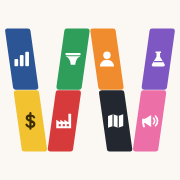
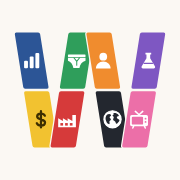
銷售分析合計改藍色、原本藍色改青色；W 圖示第二版（轉折處疊上去、新圖案）
- 合計長條 --total 改藍；c1 改青色，c9 改淡紫、c11 改沙色，藍染 --s1 改深青；進貨分析、應收帳款合計維持深紅
- 圖示：轉折處兩筆疊在一起、切口俐落；工廠煙囪短廠房大、男生三角褲、黑色改地球、粉紅改電視
- 依使用者新的 JMSINC 範本確認：品項總額 = 成本 × 數量（打），件數 × 12，和網站算法一致

Claude-Session: https://claude.ai/code/session_01EbZCET9aCDKd8NzKoi6953

Changed region(s): [[0.0278, 0.1389, 0.9722, 0.8611]]

diff --git a/js/recv.js b/js/recv.js
@@ -623,7 +623,7 @@
         <div class="kpi"><div class="k">退貨＋補價</div><div class="v">${fmt.big((T.ret || 0) + (T.bu || 0))}</div><div class="d">退貨 ${fmt.big(T.ret || 0)}、補價 ${fmt.big(T.bu || 0)}</div></div>
         <div class="kpi ${T.bad ? 'alert' : ''}"><div class="k">對不上（客戶・月）</div><div class="v">${T.bad ? `<span class="bad">${T.bad} 位</span>` : '<span class="ok">0 位</span>'}</div><div class="d">差額合計 ${fmt.money(T.diff)}</div></div>
       </div>
-      <div class="panel"><div class="panel-head"><h2>每月應收淨額與實收</h2></div><p class="hint">深紅長條是應收淨額，藍線是實收。兩者差的部分是不足、保留、溢入等調整。</p><div class="chart" id="raChart"></div>
+      <div class="panel"><div class="panel-head"><h2>每月應收淨額與實收</h2></div><p class="hint">深紅長條是應收淨額，青色線是實收。兩者差的部分是不足、保留、溢入等調整。</p><div class="chart" id="raChart"></div>
         <details class="num-table"><summary>數字表</summary><div class="table-wrap" id="raMonths"></div></details></div>
       <div class="grid2"><div class="panel"><div class="panel-head"><h2>各地區</h2></div><div class="table-wrap" id="raRegion"></div></div>
         <div class="panel"><div class="panel-head"><h2>各業務</h2></div><div class="table-wrap" id="raRep"></div></div></div>
@@ -631,7 +631,7 @@
       <div class="panel"><div class="panel-head"><h2>上次還有調整的客戶（不足、保留、溢入…）</h2></div><p class="hint">每位客戶最近一次登記的狀況。點一列到那個月的收款登記。</p><div class="table-wrap" id="raOpen"></div></div>
       <div class="panel"><div class="panel-head"><h2>${Y}年對不上的客戶</h2></div><p class="hint">同一位客戶同一個月的幾行加起來，應收淨額 ≠ 實收 + 調整。點一列到那個月去改。</p><div class="table-wrap" id="raBad"></div></div>`;
     $('#raYear').onchange = (e) => { S.recvYear = +e.target.value; renderAnalysis(ctx); };
-    Charts.render($('#raChart'), { type: 'combo', labels: byM.map((m) => ymLabel(m.ym)), series: [{ name: '應收淨額', kind: 'bar', cls: 'total', values: byM.map((m) => m.due) }, { name: '實收', kind: 'line', cls: 'c1', values: byM.map((m) => m.paid || 0) }], fmt: fmt.money, axisFmt: fmt.axis, title: '每月應收淨額與實收' });
+    Charts.render($('#raChart'), { type: 'combo', labels: byM.map((m) => ymLabel(m.ym)), series: [{ name: '應收淨額', kind: 'bar', cls: 'total-red', values: byM.map((m) => m.due) }, { name: '實收', kind: 'line', cls: 'c1', values: byM.map((m) => m.paid || 0) }], fmt: fmt.money, axisFmt: fmt.axis, title: '每月應收淨額與實收' });
     const cols = [{ key: 'due', label: '應收淨額', n: 1, fmt: 'money' }, { key: 'paid', label: '實收', n: 1, fmt: 'money' }, { key: 'disc', label: '折讓', n: 1, fmt: 'money' },
       { key: 'rate', label: '折讓率', n: 1, render: (r) => pct(r.disc || 0, (r.ar || 0) - (r.ret || 0) - (r.bu || 0)) }, { key: 'adj', label: '調整', n: 1, fmt: 'money' }, { key: 'bad', label: '對不上', n: 1, render: (r) => (r.bad ? `<span class="bad">${r.bad}</span>` : '0') }];
     ctx.table($('#raMonths'), [{ key: 'ym', label: '月份', render: (r) => ymLabel(r.ym) }, { key: 'ar', label: '應收', n: 1, fmt: 'money' }, { key: 'ret', label: '退貨', n: 1, fmt: 'money' }, { key: 'bu', label: '補價', n: 1, fmt: 'money' }, { key: 'tax', label: '稅金', n: 1, fmt: 'money' }, { key: 'other', label: '尾數', n: 1, fmt: 'money' }].concat(cols), byM);

diff --git a/css/app.css b/css/app.css
@@ -5,11 +5,11 @@
   --primary: #26437A; --primary-ink: #FFFFFF; --primary-soft: #E3E9F4;
   --accent: #B8473C; --accent-soft: #F6E3E0;
   --good: #2E7D4F; --warn: #A86A00; --bad: #B8473C;
-  --s1: #2D5AA0; --s2: #C0503F; --s3: #9AA7BD;
+  --s1: #13849a; --s2: #C0503F; --s3: #9AA7BD;
   /* 分類配色（區域、大類）：已用色盲檢查驗證，light／dark 各一組 */
-  --c1: #2a78d6; --c2: #eb6834; --c3: #1baf7a; --c4: #eda100; --c5: #e87ba4; --c6: #008300; --c7: #6250d6; --c8: #e34948; --c-ink: #ffffff; --c4-ink: #0b0b0b;
-  --total: #9B2226;
-  --c9: #0f9fb5; --c10: #9c5a2b; --c11: #6cbcf5; --c12: #8ab31b; --c13: #b5338a; --c14: #5b6b80; --c15: #6b7a1a; --c16: #3a3a3a;
+  --c1: #0fa3b8; --c2: #eb6834; --c3: #1baf7a; --c4: #eda100; --c5: #e87ba4; --c6: #008300; --c7: #6250d6; --c8: #e34948; --c-ink: #ffffff; --c4-ink: #0b0b0b;
+  --total: #1F56B8; --total-red: #9B2226;
+  --c9: #a77bd6; --c10: #9c5a2b; --c11: #c2b280; --c12: #8ab31b; --c13: #b5338a; --c14: #5b6b80; --c15: #6b7a1a; --c16: #3a3a3a;
   --heat-0: #EEF2F8; --heat-1: #C9D5EA; --heat-2: #8EA6CF; --heat-3: #4E6FA8; --heat-4: #26437A;
   --font: "Noto Sans TC", "PingFang TC", "Microsoft JhengHei", sans-serif;
   --font-head: "Noto Serif TC", "Songti TC", "PMingLiU", serif;
@@ -25,9 +25,9 @@
   --accent: #F0705A; --accent-soft: #3A2427;
   --good: #3CC2A0; --warn: #F3B23C; --bad: #F0705A;
   --s1: #2FA898; --s2: #E0674E; --s3: #5B6F8F;
-  --c1: #3987e5; --c2: #d95926; --c3: #199e70; --c4: #c98500; --c5: #d55181; --c6: #008300; --c7: #9085e9; --c8: #e66767; --c-ink: #ffffff; --c4-ink: #ffffff;
-  --total: #d0454a;
-  --c9: #2ec4d9; --c10: #c98a5a; --c11: #9ad4ff; --c12: #a6cf3a; --c13: #e070bd; --c14: #9aa9bd; --c15: #a8b84a; --c16: #d9d9d9;
+  --c1: #2ec4d9; --c2: #d95926; --c3: #199e70; --c4: #c98500; --c5: #d55181; --c6: #008300; --c7: #9085e9; --c8: #e66767; --c-ink: #ffffff; --c4-ink: #ffffff;
+  --total: #4d8ff0; --total-red: #d0454a;
+  --c9: #c4a3f0; --c10: #c98a5a; --c11: #d6c79a; --c12: #a6cf3a; --c13: #e070bd; --c14: #9aa9bd; --c15: #a8b84a; --c16: #d9d9d9;
   --heat-0: #1B2A44; --heat-1: #22445A; --heat-2: #24676E; --heat-3: #2A8B84; --heat-4: #3CB59E;
   --font: "Noto Sans TC", "PingFang TC", "Microsoft JhengHei", sans-serif;
   --font-head: "Noto Sans TC", "PingFang TC", sans-serif;
@@ -43,9 +43,9 @@
   --accent: #C77D05; --accent-soft: #FBEFD6;
   --good: #13805F; --warn: #B56F00; --bad: #C2453A;
   --s1: #13805F; --s2: #C77D05; --s3: #9DB3A8;
-  --c1: #2a78d6; --c2: #eb6834; --c3: #1baf7a; --c4: #eda100; --c5: #e87ba4; --c6: #008300; --c7: #6250d6; --c8: #e34948; --c-ink: #ffffff; --c4-ink: #0b0b0b;
-  --total: #9B2226;
-  --c9: #0f9fb5; --c10: #9c5a2b; --c11: #6cbcf5; --c12: #8ab31b; --c13: #b5338a; --c14: #5b6b80; --c15: #6b7a1a; --c16: #3a3a3a;
+  --c1: #0fa3b8; --c2: #eb6834; --c3: #1baf7a; --c4: #eda100; --c5: #e87ba4; --c6: #008300; --c7: #6250d6; --c8: #e34948; --c-ink: #ffffff; --c4-ink: #0b0b0b;
+  --total: #1F56B8; --total-red: #9B2226;
+  --c9: #a77bd6; --c10: #9c5a2b; --c11: #c2b280; --c12: #8ab31b; --c13: #b5338a; --c14: #5b6b80; --c15: #6b7a1a; --c16: #3a3a3a;
   --heat-0: #EEF6F1; --heat-1: #CBE7D8; --heat-2: #8ACBAD; --heat-3: #3FA57D; --heat-4: #13805F;
   --font: "Noto Sans TC", "PingFang TC", "Microsoft JhengHei", sans-serif;
   --font-head: "Huninn", "Noto Sans TC", sans-serif;

diff --git a/js/buy.js b/js/buy.js
@@ -191,7 +191,7 @@
         <div class="panel"><div class="panel-head"><h2>每月進貨和退回廠商</h2></div><p class="hint">近 12 個月（到 ${esc(root.EngineMeta.ymLabel(R.F[1]))}），長條是進貨、退回分開看。</p><div class="chart" id="buyInBk"></div></div></div>`;
     const tr = trend(BE, R, null);
     $('#buyTrendHint').textContent = tr.hint + (tr.prev ? '，虛線是去年同期。' : '。') + ` 合計 ${fmt.big(tr.cur.reduce((t, v) => t + v, 0))}。`;
-    Charts.render($('#buyTrend'), { type: tr.prev ? 'combo' : 'bar', labels: tr.labels, series: [{ name: '淨進貨', kind: 'bar', cls: 'total', values: tr.cur }, ...(tr.prev ? [{ name: '去年同期', kind: 'line', dash: true, cls: 's3', values: tr.prev }] : [])], fmt: fmt.money, axisFmt: fmt.axis, title: '淨進貨走勢' });
+    Charts.render($('#buyTrend'), { type: tr.prev ? 'combo' : 'bar', labels: tr.labels, series: [{ name: '淨進貨', kind: 'bar', cls: 'total-red', values: tr.cur }, ...(tr.prev ? [{ name: '去年同期', kind: 'line', dash: true, cls: 's3', values: tr.prev }] : [])], fmt: fmt.money, axisFmt: fmt.axis, title: '淨進貨走勢' });
     const vl = [...vend.values()].filter((v) => v.net > 0).sort((a, b) => b.net - a.net);
     Charts.hbars($('#buyTopV'), { rows: vl.slice(0, 10).map((v) => ({ label: BE.vendLabel(v.key), value: v.net, prev: P ? (pv.get(v.key) || {}).net || 0 : null, v: v.key, cls: X.colorOf('vend', v.key) })), fmt: fmt.big, limit: 10, onClick: (x) => openVendor(X, x.v) });
     Charts.donut($('#buyMixV'), { items: vl.map((v) => ({ label: BE.vendLabel(v.key), value: v.net, cls: X.colorOf('vend', v.key), v: v.key })), fmt: fmt.big, title: '廠商', center: { value: fmt.big(T.net), label: '淨進貨' }, onClick: (x) => openVendor(X, x.v) });

diff --git a/sw.js b/sw.js
@@ -1,5 +1,5 @@
 // 離線快取：程式本身可離線開啟；資料存在 IndexedDB，不經過這裡。
-const VERSION = 'v35';
+const VERSION = 'v36';
 const SHELL = ['./', 'index.html', 'css/app.css', 'js/app.js', 'js/engine.js', 'js/dataset.js', 'js/chart.js', 'js/period.js', 'js/recv.js', 'js/recv-backup.js', 'js/buy.js', 'js/dashboard.js', 'js/report.js', 'js/today.js', 'js/compare.js', 'js/reps.js', 'js/board.js', 'js/demo.js', 'js/worker.js', 'js/xlsx-stream.js', 'js/dbf.js', 'js/office-crypto.js', 'js/ingest.js', 'manifest.webmanifest', 'icons/icon.svg', 'icons/icon-192.png', 'icons/icon-180.png'];
 self.addEventListener('install', (e) => { e.waitUntil(caches.open(VERSION).then((c) => c.addAll(SHELL)).then(() => self.skipWaiting())); });
 self.addEventListener('activate', (e) => { e.waitUntil(caches.keys().then((ks) => Promise.all(ks.filter((k) => k !== VERSION).map((k) => caches.delete(k)))).then(() => self.clients.claim())); });

diff --git a/js/chart.js b/js/chart.js
@@ -9,7 +9,7 @@
   const mk = (tag, attrs = {}, parent) => { const e = document.createElementNS(NS, tag); for (const k in attrs) e.setAttribute(k, attrs[k]); if (parent) parent.appendChild(e); return e; };
   const esc = (s) => String(s ?? '').replace(/[&<>"]/g, (c) => ({ '&': '&amp;', '<': '&lt;', '>': '&gt;', '"': '&quot;' }[c]));
   const col = (cls) => `var(--${cls || 's1'})`;
-  // 分類色（原本的順序）；合計／淨銷售總數用另外的 --total（深紅），不在這裡
+  // 分類色（原本的順序）；合計／淨銷售總數用另外的 --total（2026-11-17 起是藍色，c1 改青色），不在這裡；進貨分析、應收帳款的合計用 --total-red
   const PAL = ['c1', 'c2', 'c3', 'c4', 'c5', 'c6', 'c7', 'c8', 'c9', 'c10', 'c11', 'c12', 'c13', 'c14', 'c15', 'c16'];
 
   // 讓格線落在整齊的數字上（1、2、5 的倍數）

diff --git a/js/compare.js b/js/compare.js
@@ -23,7 +23,7 @@
     { k: 'cat', label: '商品類別' }, { k: 'ck', label: '客戶' }, { k: 'style', label: '款號' },
   ];
   const FILTER_DIMS = ['region', 'rep', 'big', 'cat', 'ck', 'style'];
-  const COLORS = ['c1', 'c3', 'c4', 'c7', 'c5', 'c6']; // 不用橘、紅，免得和合計的深紅長條混在一起
+  const COLORS = ['c1', 'c3', 'c4', 'c7', 'c5', 'c6']; // 不用藍、橘、紅，免得和合計的藍色長條混在一起
 
   function render(ctx) {
     const { S, E, fmt, nf0, nf1, esc, $, $$, Charts, repName } = ctx;

diff --git a/tests/make_icon.py b/tests/make_icon.py
@@ -1,42 +1,60 @@
 # 產生主畫面圖示 W 標誌（icons/icon.svg、PNG；2026-11-17 使用者設計）：8 個斜的色塊組成 W 的 4 筆，每筆上下兩塊。
-# 沿著 W 的筆畫依序：藍（銷售分析圖）、黃（錢）、紅（工廠）、綠（內褲）、橘（人）、黑（地圖）、粉（行銷）、紫（實驗室）
+# 沿著 W 的筆畫依序：藍（銷售分析圖）、黃（錢）、紅（工廠）、綠（男生三角褲）、橘（人）、黑（地球，上面有地圖）、粉（電視，代表行銷）、紫（實驗室）
 import math, sys
-W_, H_, DEG, GAP = 58, 160, 8, 16   # 色塊寬、高、傾斜角度、間隔（含圓角外擴）
-RND = 14                             # 圓角（用同色外框做出來，會外擴 RND/2）
+# 2026-11-17 第二版（使用者要求）：轉折處（下面兩個尖角、中間的尖角）兩筆稍微疊上去；切口俐落（小圓角、細的底色分隔線）
+W_, H_, DEG = 72, 160, 9      # 色塊寬、高、傾斜角度
+CUT = 7                        # 同一筆上下兩塊之間的切口
+OV = 22                        # 轉折處兩筆疊在一起的寬度
+RAD = 5                        # 圓角（小一點比較俐落）
+LINE = 7                       # 疊在上面的色塊外圍的底色分隔線（一半在色塊外）
+BG = '#FBF8F3'
 COLS = ['#2C5596', '#F2C230', '#D63A3A', '#2F9E5B', '#F08C2E', '#23272F', '#EC6FA8', '#7E57C2']
-GL = ['chart', 'money', 'factory', 'briefs', 'person', 'map', 'promo', 'lab']
+GL = ['chart', 'money', 'factory', 'briefs', 'person', 'globe', 'tv', 'lab']
 GLY = {
  'chart': '<rect x="3" y="12" width="4.6" height="9" rx="1.2"/><rect x="9.7" y="7" width="4.6" height="14" rx="1.2"/><rect x="16.4" y="3" width="4.6" height="18" rx="1.2"/>',
  'money': '<path d="M16.6 7.6c-.8-1.6-2.5-2.4-4.6-2.4-2.6 0-4.5 1.3-4.5 3.3 0 4.6 9.3 2.4 9.3 7.2 0 2.1-2 3.6-4.9 3.6-2.2 0-4-.9-4.8-2.7M12 2.4v19.2" fill="none" stroke="currentColor" stroke-width="2.7" stroke-linecap="round" stroke-linejoin="round"/>',
- 'factory': '<path d="M2 21V10.5l5 3v-3l5 3v-3l5 3V3h3.4v18z"/><rect x="5" y="16" width="2.6" height="2.6" fill="BG"/><rect x="10" y="16" width="2.6" height="2.6" fill="BG"/><rect x="15" y="16" width="2.6" height="2.6" fill="BG"/>',
+ # 工廠：煙囪短、廠房大
+ 'factory': '<path d="M1 21.5V10.6l5.6 3.4v-3.4l5.6 3.4v-3.4l5.6 3.4V6.8h4.2v14.7z"/><rect x="3.6" y="16.4" width="3.2" height="3" fill="BG"/><rect x="9.2" y="16.4" width="3.2" height="3" fill="BG"/><rect x="14.8" y="16.4" width="3.2" height="3" fill="BG"/>',
  'person': '<circle cx="12" cy="7.3" r="4.6"/><path d="M3.3 21.2c0-4.8 3.9-8.3 8.7-8.3s8.7 3.5 8.7 8.3z"/>',
- 'briefs': '<rect x="2.6" y="4.4" width="18.8" height="3" rx="1"/><path d="M2.6 8.6h18.8c-3.6 1.2-6.1 4.6-6.6 10.6H9.2C8.7 13.2 6.2 9.8 2.6 8.6z"/>',
- 'promo': '<path d="M2.8 9.4h3.6L14 4.6v14.8l-7.6-4.8H5.2l1.3 5.2H3.9l-1.1-5.2z"/><path d="M16.8 8.6a4.6 4.6 0 0 1 0 6.8M19.3 6a8.3 8.3 0 0 1 0 12" fill="none" stroke="currentColor" stroke-width="2" stroke-linecap="round"/>',
+ # 男生三角褲：腰頭、兩側有寬度、前面 Y 字車線
+ 'briefs': '<rect x="1.6" y="4.6" width="20.8" height="3.2" rx=".8"/><path d="M1.6 8.6h20.8v3.6c-3.9 1-6.6 4.2-7.2 8.6H8C7.4 16.4 4.7 13.2 1.6 12.2z"/><path d="M8.6 8.6l3.4 4.2 3.4-4.2M12 12.8v4.6" fill="none" stroke="BG" stroke-width="1.2" stroke-linecap="round" stroke-linejoin="round"/>',
+ # 地球（上面有地圖）
+ 'globe': '<circle cx="12" cy="12" r="10.2"/><g fill="BG"><path d="M5.7 6.2c1.6-.9 3.6-.8 4.4.3.6.8-.3 1.7-1.1 2.2-.8.6-.4 1.6.5 2.2 1 .7.6 2-.4 2.5-.9.5-1 1.6-.6 2.7.3 1-.2 1.9-1.1 1.5C5.6 17 4.4 14.4 3.9 12.4c-.5-2 .2-5 1.8-6.2z"/><path d="M13.2 4.6c2-.4 4.3.3 5.8 1.8.8.9.4 1.9-.5 2-1.2.1-1.7 1-1.2 1.9.5 1.1 1.7 1.3 2.6 2.1.6.6.2 1.7-.5 2.4l-1.9 2c-.6.6-1.6.3-1.7-.6-.2-1.4-1.2-2.1-2.3-2.8-1-.6-1-1.9-.3-2.8.6-.8.1-1.7-.6-2.2-.9-.7-.7-1.8.6-1.8z"/></g><circle cx="12" cy="12" r="10.2" fill="none" stroke="currentColor" stroke-width="1.4"/>',
+ # 電視：天線、螢幕、旋鈕
+ 'tv': '<path d="M7.6 2.6 12 6.6l4.4-4" fill="none" stroke="currentColor" stroke-width="1.8" stroke-linecap="round" stroke-linejoin="round"/><rect x="1.4" y="6.8" width="21.2" height="13.4" rx="2"/><rect x="3.4" y="8.8" width="13.4" height="9.4" rx="1.4" fill="BG"/><circle cx="19.7" cy="11.2" r="1.1" fill="BG"/><circle cx="19.7" cy="15" r="1.1" fill="BG"/><path d="M5.5 20.2 4.6 22.2M18.5 20.2l.9 2" stroke="currentColor" stroke-width="1.8" stroke-linecap="round"/>',
  'lab': '<path d="M8.6 2.6h6.8v2h-1.2v4.6l5.6 9.3a1.8 1.8 0 0 1-1.5 2.8H5.7a1.8 1.8 0 0 1-1.5-2.8l5.6-9.3V4.6H8.6z"/><path d="M7 15.2h10" stroke="BG" stroke-width="1.6" stroke-linecap="round"/>',
- 'map': '<path d="M2.6 5.8 8.8 3.6l6.4 2.2 6.2-2.2v14.6l-6.2 2.2-6.4-2.2-6.2 2.2z"/><path d="M8.8 3.6v14.6M15.2 5.8v14.6" stroke="BG" stroke-width="1.5"/>',
 }
+def para(cx, cy, a, b, t, sg, r):
+    """斜的平行四邊形（上下邊水平），角稍微圓一點"""
+    P = [(cx - a - sg * b * t, cy - b), (cx + a - sg * b * t, cy - b), (cx + a + sg * b * t, cy + b), (cx - a + sg * b * t, cy + b)]
+    out = []
+    for i in range(4):
+        p0, p1, p2 = P[i - 1], P[i], P[(i + 1) % 4]
+        def toward(p, q, d):
+            L = math.hypot(q[0] - p[0], q[1] - p[1]); return (p[0] + (q[0] - p[0]) * d / L, p[1] + (q[1] - p[1]) * d / L)
+        s1 = toward(p1, p0, r); s2 = toward(p1, p2, r)
+        out.append(f"{'M' if i == 0 else 'L'}{s1[0]:.1f},{s1[1]:.1f} Q{p1[0]:.1f},{p1[1]:.1f} {s2[0]:.1f},{s2[1]:.1f}")
+    return ' '.join(out) + 'Z'
 def blocks():
     t = math.tan(math.radians(DEG)); a, b = W_ / 2, H_ / 2
-    s = (H_ + GAP) * t; step = 2 * a + 2 * b * t + GAP
+    s = (H_ + CUT) * t; step = 2 * a + 2 * b * t - OV
     x1t = 0; x1b = s; x2b = x1b + step; x2t = x2b + s; x3t = x2t + step; x3b = x3t + s; x4b = x3b + step; x4t = x4b + s
     width = x4t + 2 * a + 2 * b * t
     off = (512 - width) / 2 + a + b * t
-    yt = (512 - (2 * H_ + GAP)) / 2 + b; yb = yt + H_ + GAP
+    yt = (512 - (2 * H_ + CUT)) / 2 + b; yb = yt + H_ + CUT
     pos = [(x1t, yt, 1), (x1b, yb, 1), (x2b, yb, -1), (x2t, yt, -1), (x3t, yt, 1), (x3b, yb, 1), (x4b, yb, -1), (x4t, yt, -1)]
     out = []
     for (cx, cy, sg), col, g in zip(pos, COLS, GL):
         cx += off
-        pts = [(cx - a - sg * b * t, cy - b), (cx + a - sg * b * t, cy - b), (cx + a + sg * b * t, cy + b), (cx - a + sg * b * t, cy + b)]
-        d = 'M' + ' L'.join(f'{x:.1f},{y:.1f}' for x, y in pts) + 'Z'
         ink = '#3d2e00' if col == '#F2C230' else '#fff'
-        gs = W_ * 0.95; sc = gs / 24
-        out.append(f'<path d="{d}" fill="{col}" stroke="{col}" stroke-width="{RND}" stroke-linejoin="round"/>'
+        gs = W_ * 0.8; sc = gs / 24
+        out.append(f'<path d="{para(cx, cy, a, b, t, sg, RAD)}" fill="{col}" stroke="{BG}" stroke-width="{LINE}" paint-order="stroke" stroke-linejoin="round"/>'
                    f'<g transform="translate({cx - gs / 2:.1f} {cy - gs / 2:.1f}) scale({sc:.4f})" fill="{ink}" color="{ink}">{GLY[g].replace("BG", col)}</g>')
     return ''.join(out)
 def svg(scale=1.0, round_bg=False):
     body = blocks()
     if scale != 1: body = f'<g transform="translate(256 256) scale({scale}) translate(-256 -256)">{body}</g>'
-    return f'<svg xmlns="http://www.w3.org/2000/svg" viewBox="0 0 512 512"><rect width="512" height="512" rx="{112 if round_bg else 0}" fill="#FBF8F3"/>{body}</svg>'
+    return f'<svg xmlns="http://www.w3.org/2000/svg" viewBox="0 0 512 512"><rect width="512" height="512" rx="{112 if round_bg else 0}" fill="{BG}"/>{body}</svg>'
 # 用法：python tests/make_icon.py（需要 playwright）→ 寫入 icons/icon.svg、icon-180/192/512.png、icon-maskable-512.png
 if __name__ == '__main__':
     import asyncio, os
